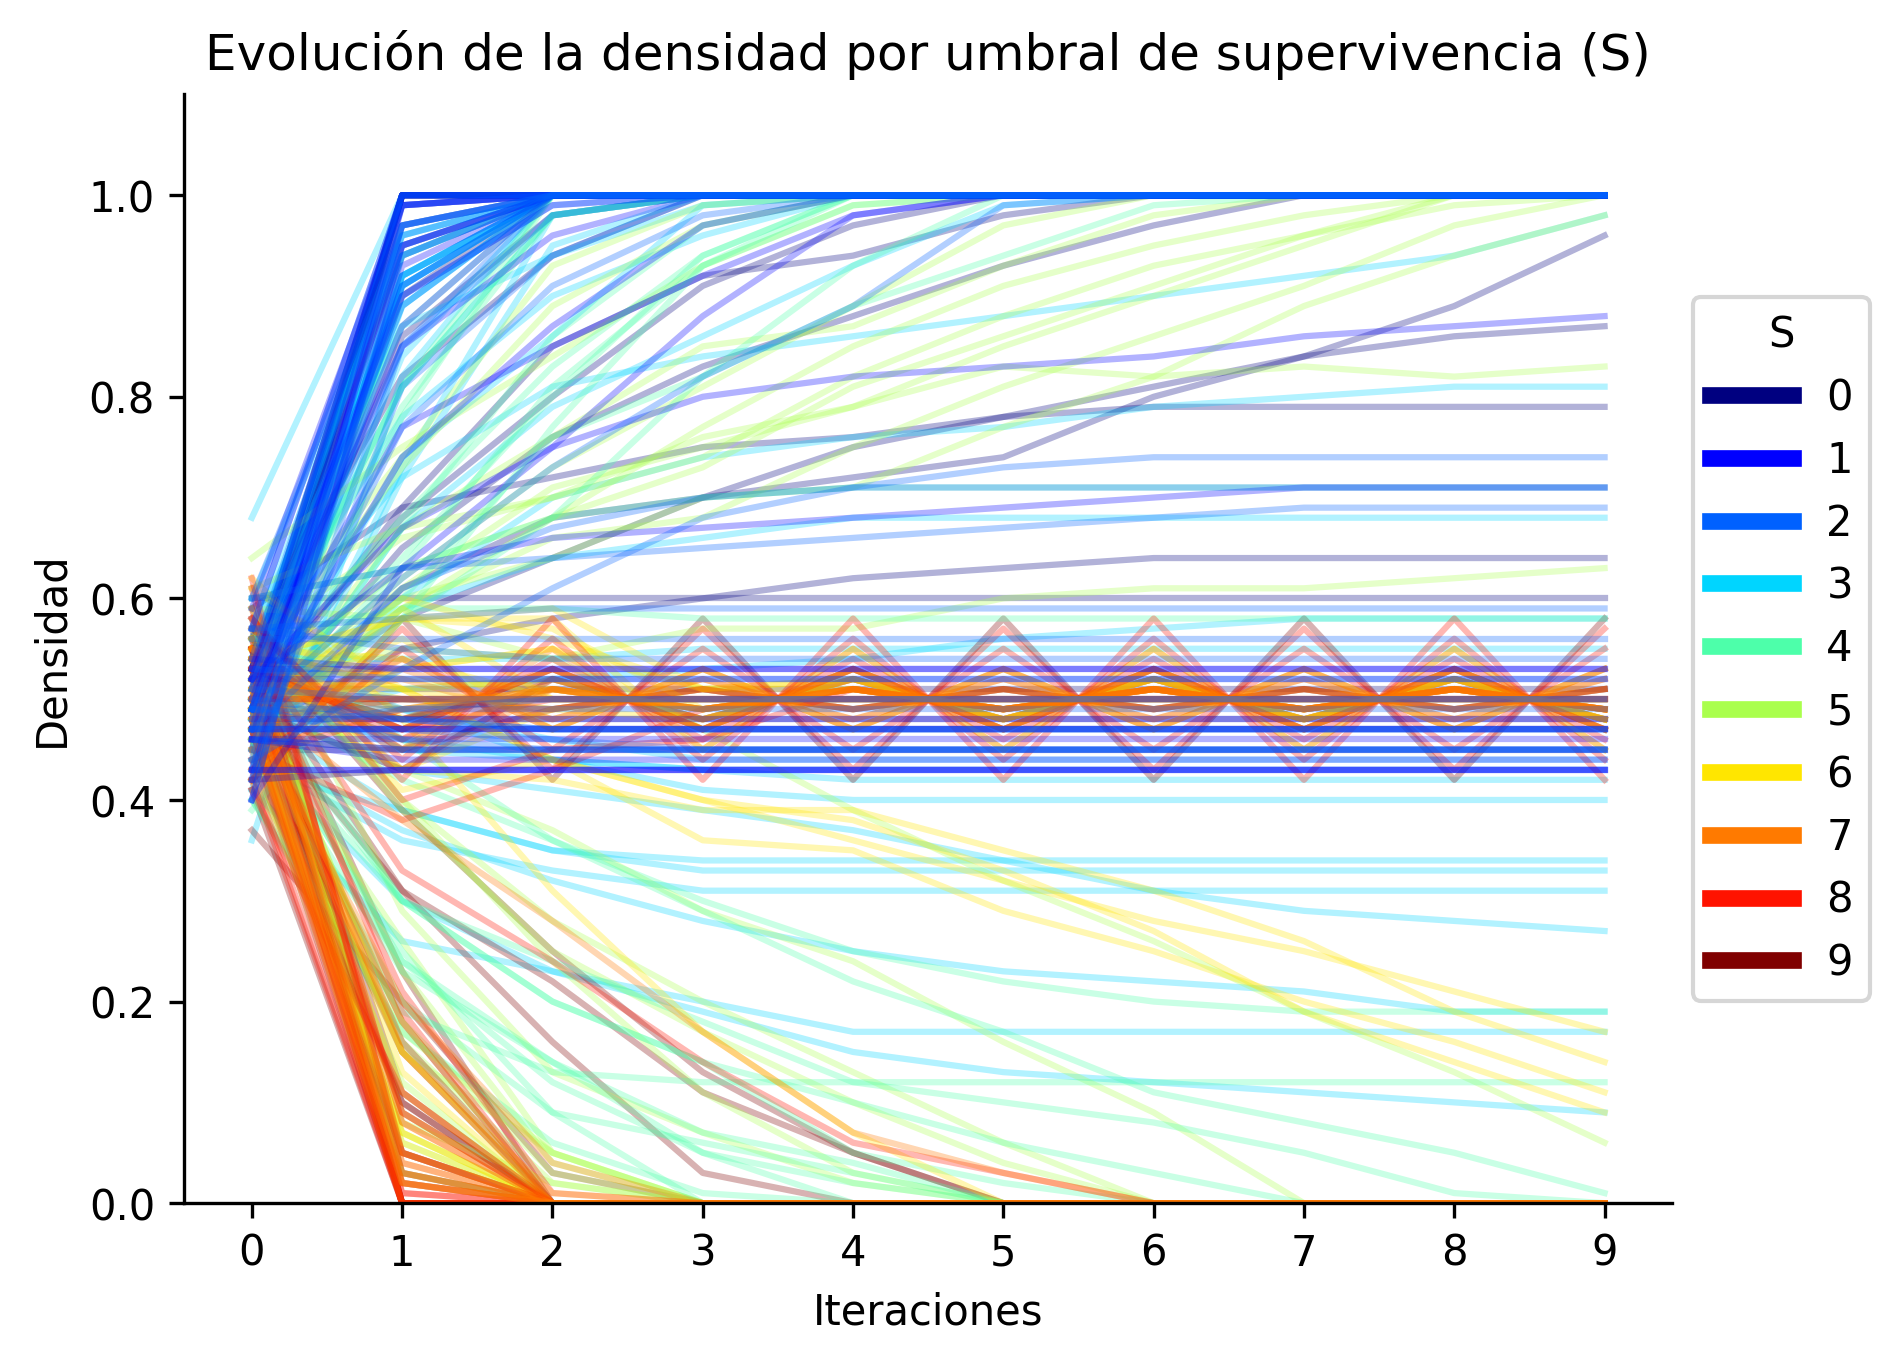
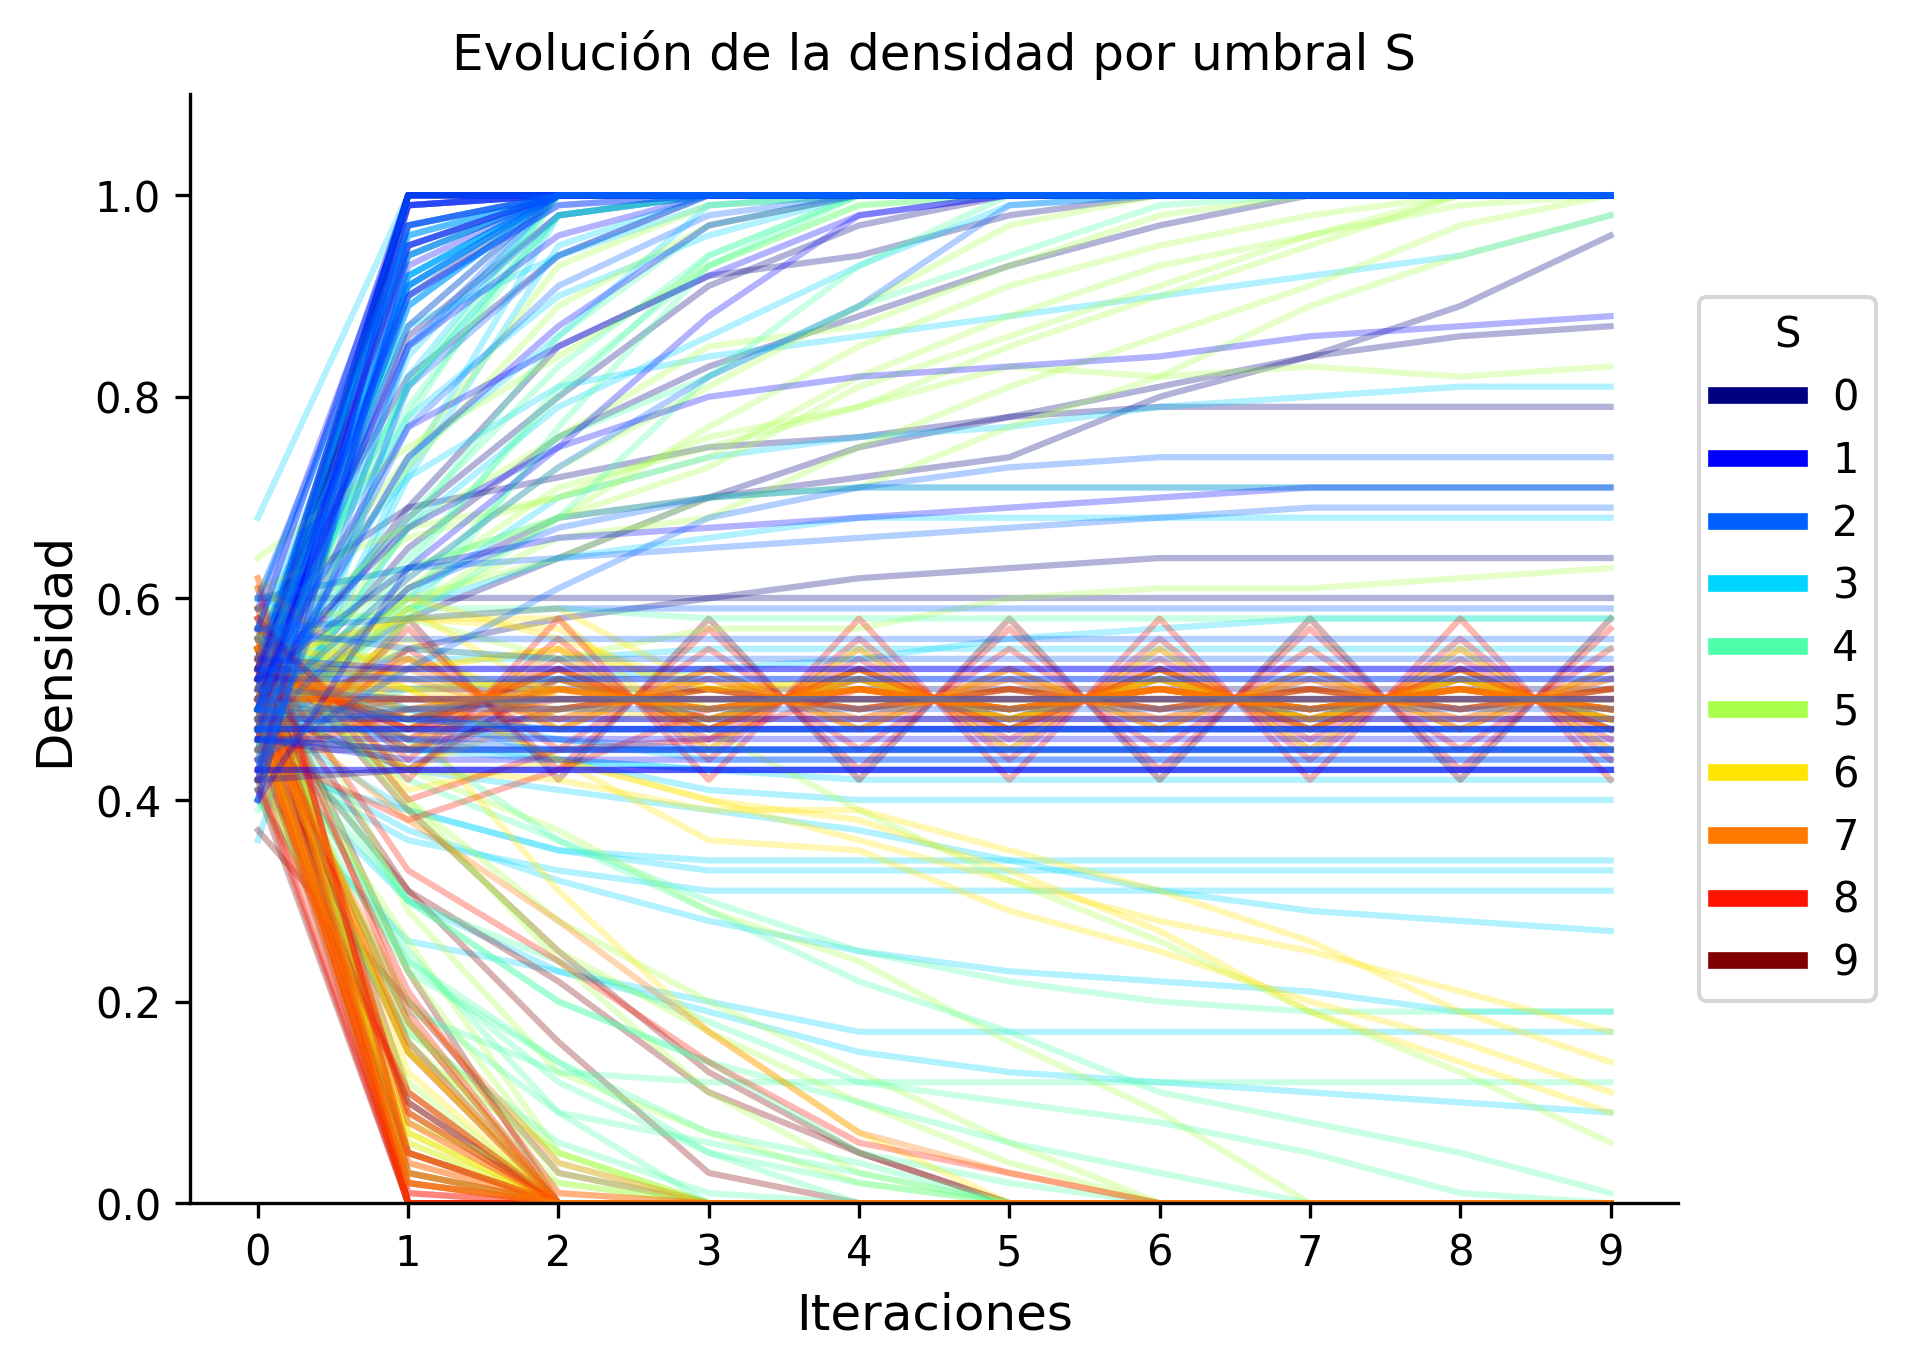
Recreate dataset8 figs

diff --git a/src/statistics/densities.py b/src/statistics/densities.py
@@ -107,7 +107,7 @@ def plot_density_variations(density_evolutions, title):
 
 # density evolution per B
 
-def create_dataset_density_evolution_per_B_plot(dataset, show=False, title="Evolución de la densidad por umbral de vida (B)", limit=None, suffix=''):
+def create_dataset_density_evolution_per_B_plot(dataset, show=False, title="Evolución de la densidad por umbral B", limit=None, suffix=''):
     
     data_datasets_folder = get_data_datasets_folder(dataset)
     dataset_file = f'{data_datasets_folder}/{dataset}/dataset.csv'
@@ -162,8 +162,7 @@ def plot_density_evolutions_per_B(density_evolutions_by_B, Bs, title):
 
 # density evolution per S
 
-def create_dataset_density_evolution_per_S_plot(dataset, show=False, title="Evolución de la densidad por umbral de supervivencia (S)", limit=None, suffix=''):
-    
+def create_dataset_density_evolution_per_S_plot(dataset, show=False, title="Evolución de la densidad por umbral S", limit=None, suffix=''):
     data_datasets_folder = get_data_datasets_folder(dataset)
     dataset_file = f'{data_datasets_folder}/{dataset}/dataset.csv'
     df = pd.read_csv(dataset_file)
@@ -202,6 +201,9 @@ def plot_density_evolutions_per_S(density_evolutions_by_S, Ss, title):
             plt.plot(densities, c=color, alpha=0.3)
     
     ax.set(ylim=(0, 1.1), xlabel='Iteraciones', ylabel='Densidad', title=title)
+    # set label fontsize
+    ax.axes.xaxis.label.set_size(12)
+    ax.axes.yaxis.label.set_size(12)
     # remove right and top spines
     ax.spines.right.set_visible(False)
     ax.spines.top.set_visible(False)

diff --git a/src/main_density_plots.py b/src/main_density_plots.py
@@ -12,8 +12,8 @@ if __name__ == '__main__':
     
     dataset = DATASET3
     # create_dataset_density_evolution_plot(dataset, limit=300)
-    # create_dataset_density_evolution_per_S_plot(dataset)
-    # create_dataset_density_evolution_per_B_plot(dataset)
+    # create_dataset_density_evolution_per_S_plot(dataset, limit=300)
+    # create_dataset_density_evolution_per_B_plot(dataset, limit=300)
     # create_dataset_density_evolution_plot(dataset)
     # create_dataset_density_variation_plot(dataset)
     # create_dataset_density_histograms_plot(dataset)
@@ -38,8 +38,8 @@ if __name__ == '__main__':
     dataset = DATASET8
     # create_dataset_density_evolution_per_S_plot(DATASET8)
     # create_dataset_density_evolution_per_B_plot(DATASET8)
-    create_dataset_density_evolution_per_B_and_S_plot(DATASET8)
-    print('dataset8 done')
+    # create_dataset_density_evolution_per_B_and_S_plot(DATASET8)
+    # print('dataset8 done')
     
     # dataset = DATASET9
     # create_dataset_density_evolution_plot(DATASET9, limit=500)
